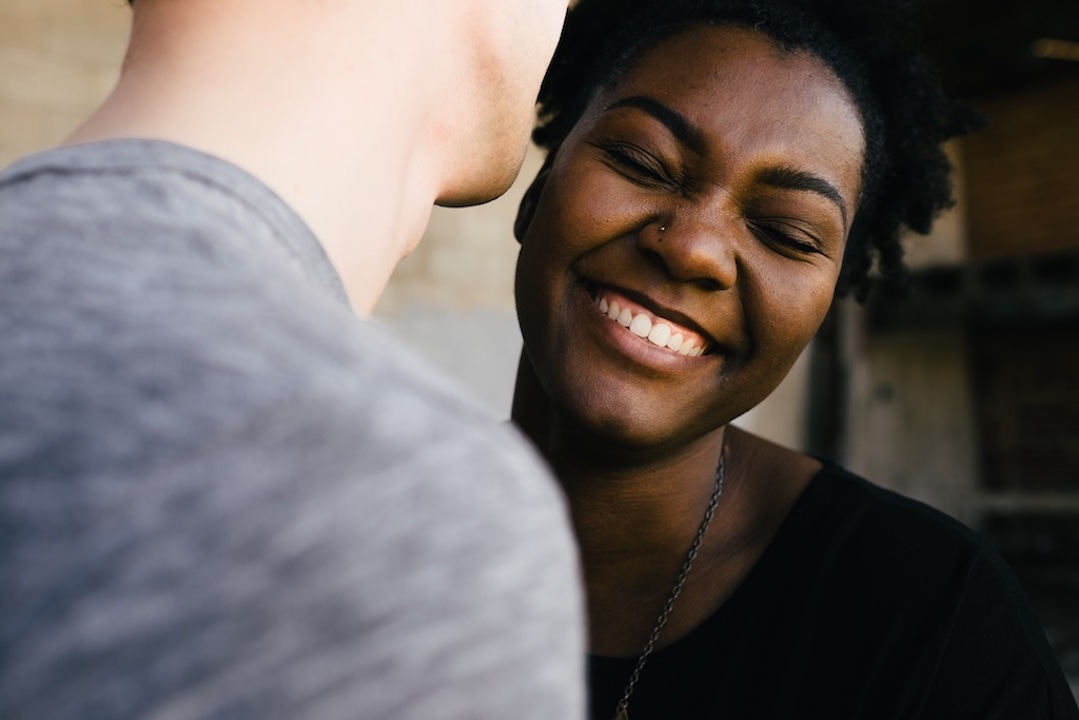
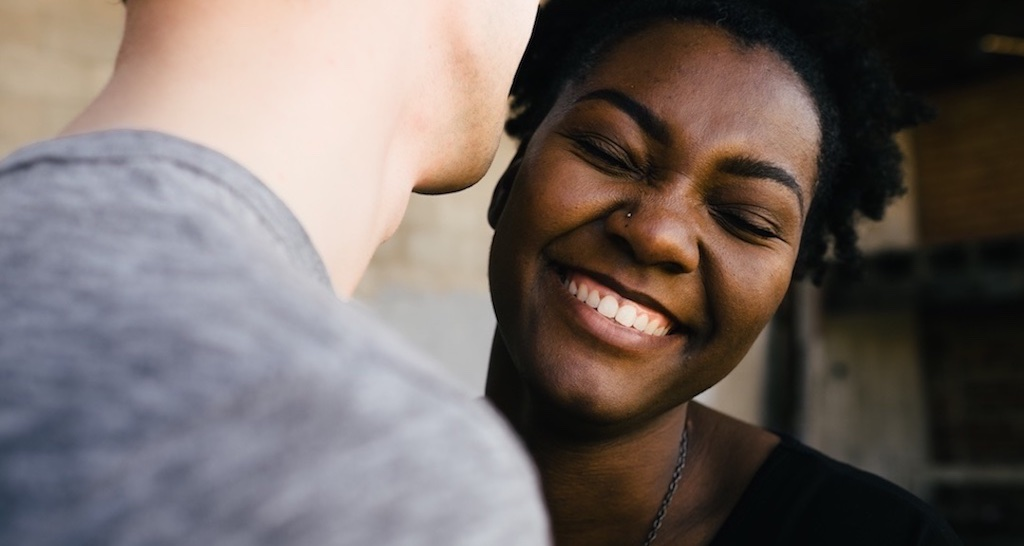
resized carousel images

diff --git a/public/index.html b/public/index.html
@@ -37,19 +37,19 @@
             <!-- Wrapper for slides -->
             <div class="carousel-inner" role="listbox">
                 <div class="item active">
-                    <img alt="Smiling" src="images/childrensPeace.jpg" width="100%">
+                    <img alt="Smiling" src="images/eyesClosedSmiles.jpg">
                 </div>
 
                 <div class="item">
-                    <img alt="mountain smiles" src="images/eyesClosedSmiles.jpg" height="300px" width="100%">
+                    <img alt="mountain smiles" src="images/blackShirtSmile.jpg">
                 </div>
 
                 <div class="item">
-                    <img alt="Smiles" src="images/hoodieSmile.jpg" height="300px" width="100%">
+                    <img alt="Smiles" src="images/furSmiles.jpg">
                 </div>
 
                 <div class="item">
-                    <img alt="Smiling women" src="images/paintedSmile.jpg" height="300px" width="100%">
+                    <img alt="Smiling women" src="images/greyMustache.jpg">
                 </div>
             </div>
             <!-- Left and right controls -->

diff --git a/public/css/styles.css b/public/css/styles.css
@@ -28,24 +28,19 @@ audio {
 	margin: 0px;
 }
 
-
 #container {
 	padding: 0px;
 	margin: 0px;
-	width: 100%;
+	width: auto;
+
 }
 
-
 .carousel-inner>.item>a>img, .carousel-inner>.item>img, .img-responsive, .thumbnail a>img, .thumbnail>img {
-    display: block;
-    max-width: 100%;
-    height: 600px;
+	height: auto;
+  	width: 100%;
+  	/*max-width: 100%;*/
+  	/*max-height: 100%;*/
 	background-position: center;
 	background-size:cover;
 	background-repeat: no-repeat;
-
-}
-
-.container {
-
 }
